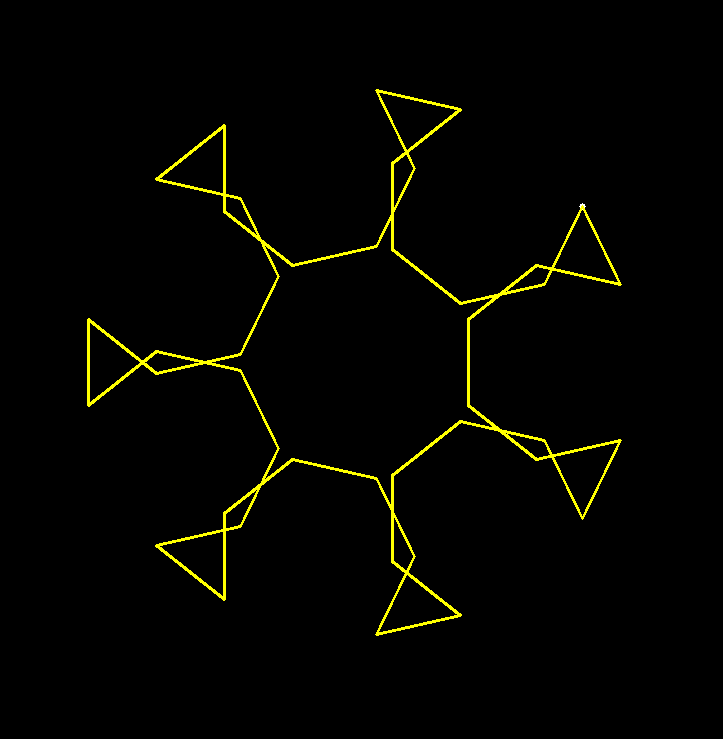
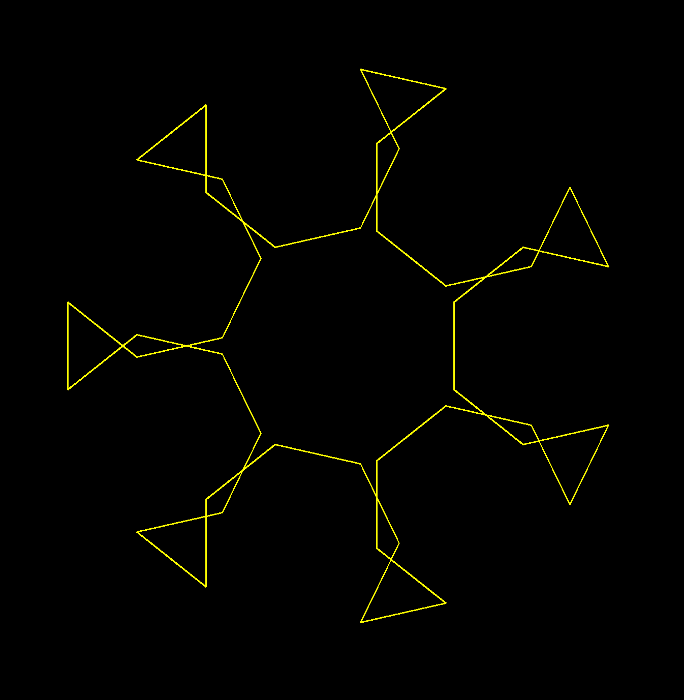
added some images

diff --git a/src/main.py b/src/main.py
@@ -31,7 +31,7 @@ def rules_str_to_int_duples(rules_string):
 
 
 #Variables to draw the new polygon
-rules = [(2,0)] #rules are defined as an array of tuples formed like (turn,multiplication)
+rules = [(6,0),(2,2)] #rules are defined as an array of tuples formed like (turn,multiplication)
 polygon_sides = 7
 show_construction = True
 change_colors = False
